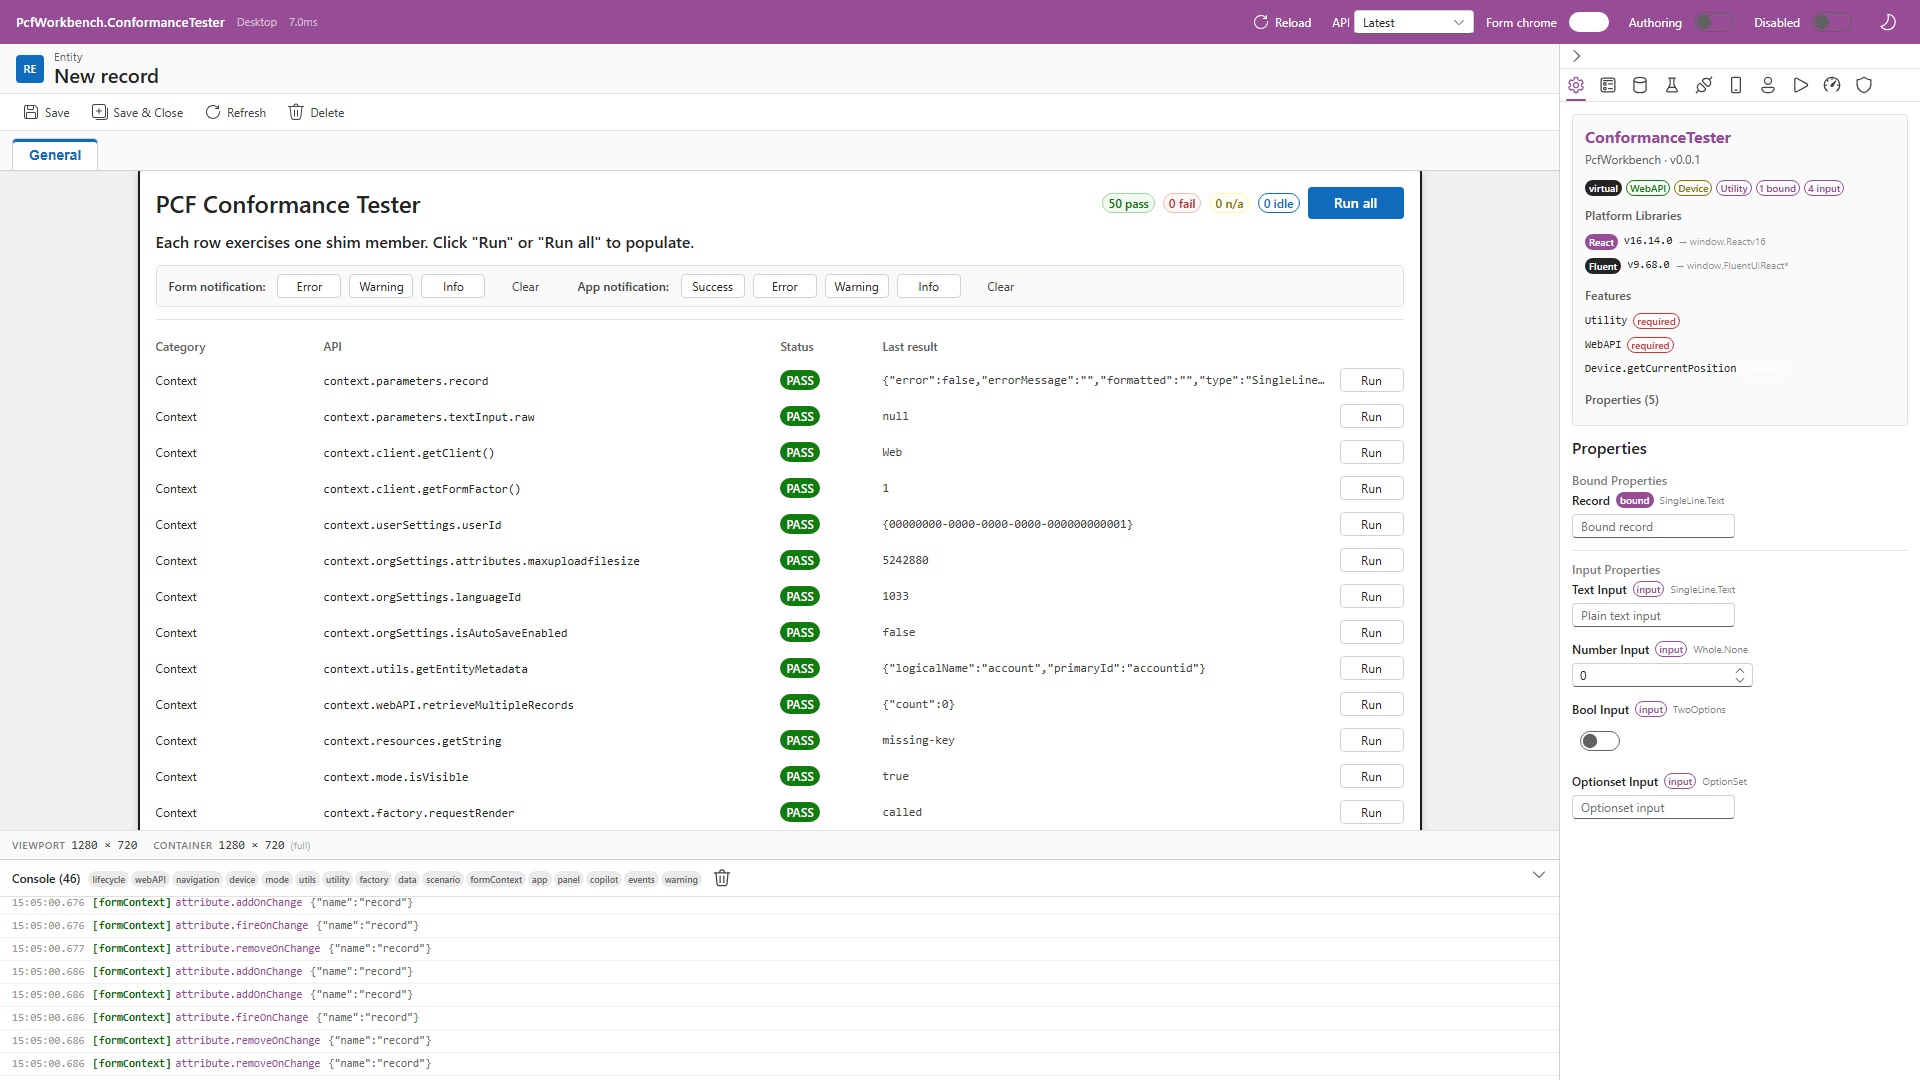
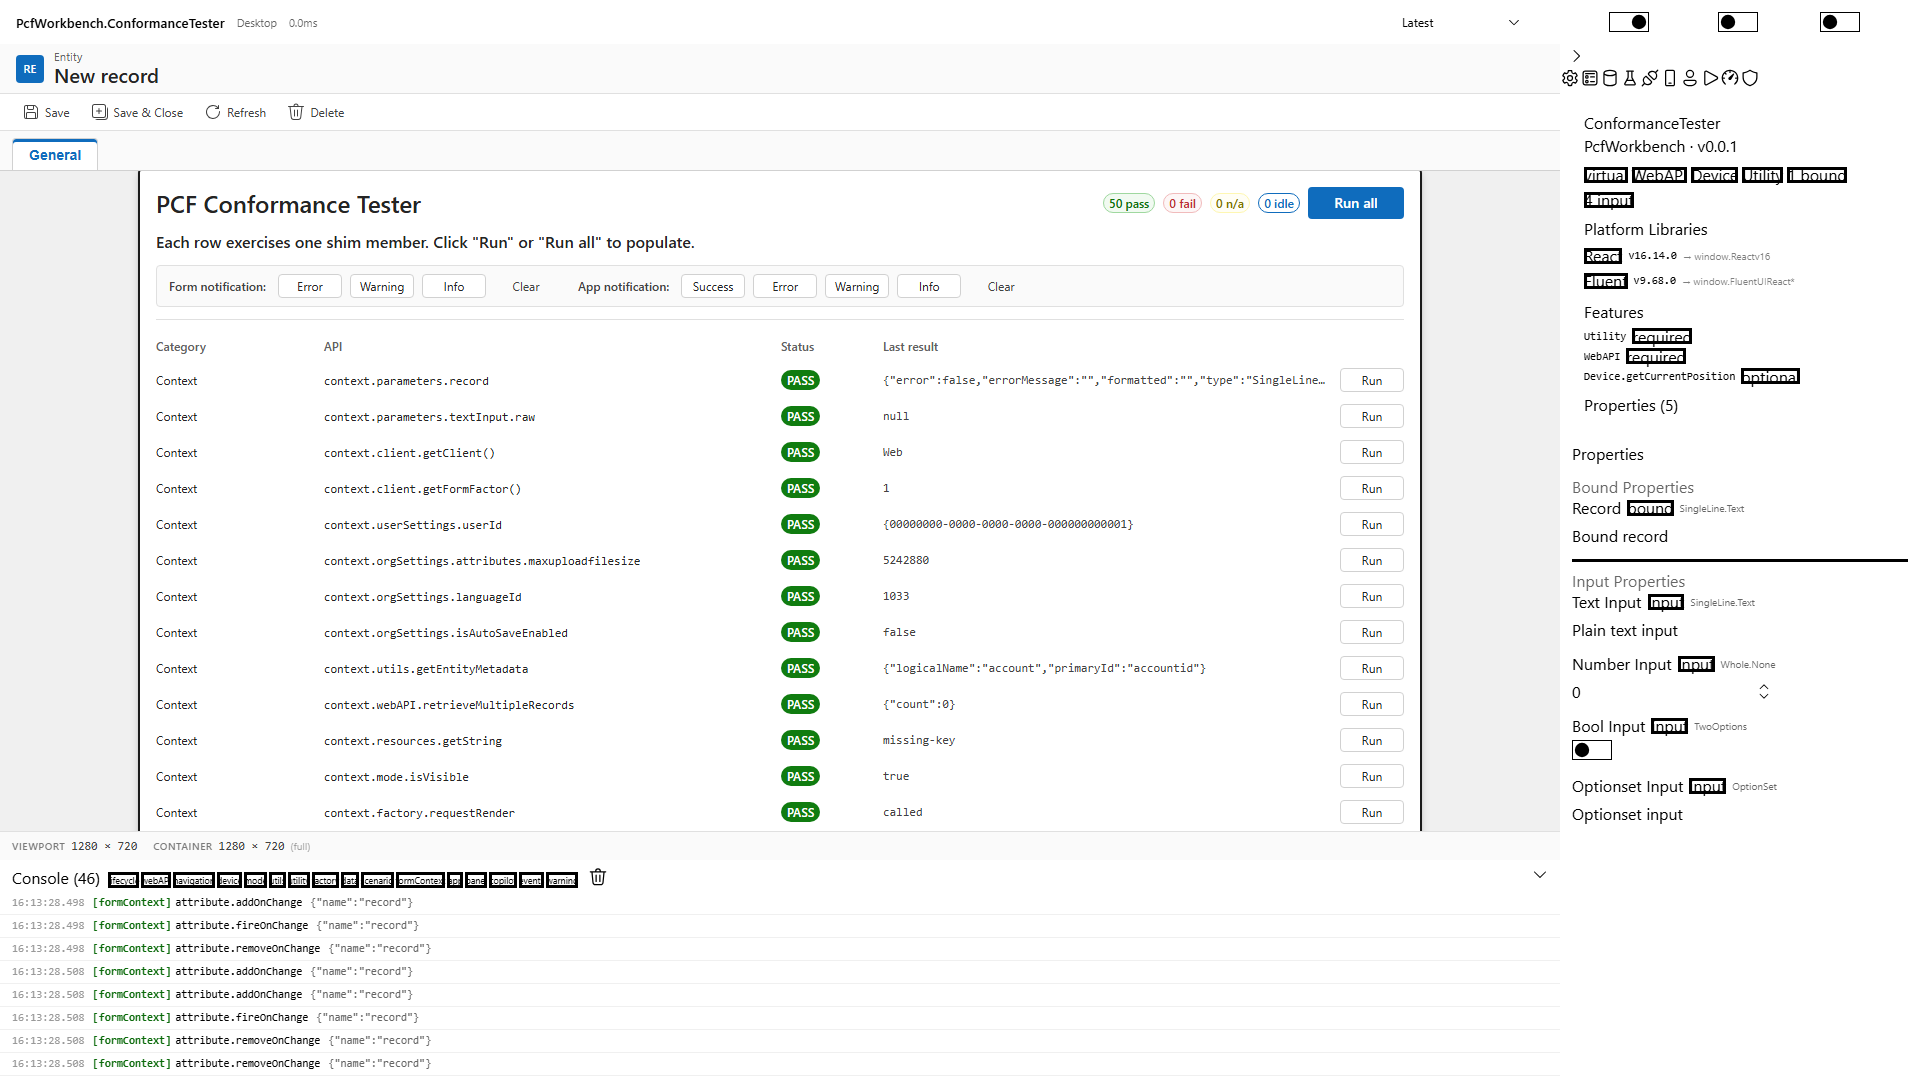
react17-fluent9-late: bump to React 18 when Fluent v9 >= 9.40
Virtual PCFs that declare React 16 but bundle Fluent v9 >= 9.40 crash in commit phase with 'Cannot read properties of undefined (reading set)' because Fluent v9.40+ uses useSyncExternalStore, which needs React 18's real dispatcher (React 16's polyfill can't replicate the .set object).

Resolution: when the bundle scan reports Fluent v9 >= 9.40 and the manifest declared React major < 18, override the manifest with React 18.3.1 and warn loudly. Otherwise respect the manifest. Defaults to React 16.14.0 (UCI parity).

Plumbed effectiveReactVersion / effectiveReactSource through ManifestResources so transformIndexHtml, setupReactAliases, and getReactDOMGlobal all use one resolved decision. control-host now prefers ReactDOM.createRoot (React 18) over .render (16/17) and unmounts cleanly via root.unmount() in destroy().

Validated: ConformanceTester (declares React 16, has Fluent 9.68) upgraded to React 18 and stays Playwright 50/0/0. NoteTakingCtrl (declares React 16, has Fluent 9.46) no longer crashes on the Fluent .set bug; remaining errors are unrelated control-side undefined-property reads against an absent data.json.

diff --git a/harness/src/vite-plugin/pcf-plugin.ts b/harness/src/vite-plugin/pcf-plugin.ts
@@ -123,6 +123,48 @@ function detectFluentNeeds(
   return out;
 }
 
+/**
+ * Reconcile the manifest's React platform-library version with what Fluent
+ * v9 needs at runtime.
+ *
+ * Why: deployed manifests routinely declare React 16 but bundle a recent
+ * Fluent v9 (≥ 9.40) that needs React 17/18's useSyncExternalStore
+ * dispatcher. The harness's React 16 polyfill of useSyncExternalStore is
+ * incomplete (it cannot replicate the internal dispatcher object with
+ * `.set`), so Fluent crashes in commit with "Cannot read properties of
+ * undefined (reading 'set')". Real UCI has the same issue — controls that
+ * ship this combination are de-facto broken in production too, but it's
+ * masked by hosting environment. We have to be pragmatic.
+ *
+ * Resolution order (first match wins):
+ *   1. Bundle uses Fluent v9 ≥ 9.40 AND declared React major < 18 →
+ *      upgrade to React 18.3.1 (override the manifest to make the control
+ *      actually run; warn loudly).
+ *   2. Manifest declares React explicitly → respect it.
+ *   3. Bundle uses Fluent v9 ≥ 9.40 (no React declared) → React 18.3.1.
+ *   4. Default → React 16.14.0 (matches UCI production).
+ */
+function resolveReactVersion(
+  manifest: ManifestConfig,
+): { version: string; source: 'manifest' | 'fluent-upgrade' | 'default' } {
+  const declared = manifest.resources.platformLibraries.find(l => l.name === 'React');
+  const fluentV9 = manifest.resources.fluentNeeds?.v9;
+  const fluentNeedsR18 = (() => {
+    if (!fluentV9) return false;
+    const [maj, minRaw] = fluentV9.split('.');
+    return maj === '9' && Number(minRaw ?? '0') >= 40;
+  })();
+
+  if (fluentNeedsR18) {
+    const declaredMajor = declared ? Number(declared.version.split('.')[0]) : NaN;
+    if (!declared || declaredMajor < 18) {
+      return { version: '18.3.1', source: 'fluent-upgrade' };
+    }
+  }
+  if (declared) return { version: declared.version, source: 'manifest' };
+  return { version: '16.14.0', source: 'default' };
+}
+
 function loadControl(state: PcfPluginState): void {
   if (!state.controlDir) return;
 
@@ -162,6 +204,18 @@ function loadControl(state: PcfPluginState): void {
   // globals undefined → cryptic runtime crashes (e.g. "undefined.gap" when v8 is
   // aliased over v9 calls to shorthands.gap).
   state.manifest.resources.fluentNeeds = detectFluentNeeds(state.outDir, state.manifest);
+  const { version: effReact, source: effReactSource } = resolveReactVersion(state.manifest);
+  state.manifest.resources.effectiveReactVersion = effReact;
+  state.manifest.resources.effectiveReactSource = effReactSource;
+  console.log(
+    `[pcf-workbench] React version: ${effReact} (source: ${effReactSource})` +
+    (effReactSource === 'fluent-upgrade'
+      ? ` — bumped to React 18 because Fluent v9 ≥ 9.40 needs the real useSyncExternalStore dispatcher` +
+        (state.manifest.resources.platformLibraries.find(l => l.name === 'React')
+          ? ` (manifest declared React ${state.manifest.resources.platformLibraries.find(l => l.name === 'React')!.version} — overridden to keep the control functional)`
+          : '')
+      : '')
+  );
 
   // RESX — bucketed by LCID parsed from filename like `name.1033.resx`.
   // Files without a 4-digit LCID stem fall into bucket 0 (treated as default).
@@ -294,34 +348,25 @@ export function pcfPlugin(): Plugin {
 
     transformIndexHtml() {
       if (!state.manifest) return [];
-      const libs = state.manifest.resources.platformLibraries;
       const tags: Array<{ tag: string; attrs: Record<string, string>; injectTo: 'head-prepend' }> = [];
 
       // Inject React UMD scripts BEFORE everything else so globals exist
-      // when the PCF bundle loads
-      let reactLib = libs.find(l => l.name === 'React');
+      // when the PCF bundle loads. The effective version was resolved during
+      // loadControl via resolveReactVersion — it reconciles the manifest
+      // declaration with Fluent v9 ≥ 9.40's hard requirement on React 17/18.
+      const effective = state.manifest.resources.effectiveReactVersion ?? '16.14.0';
+      const major = effective.split('.')[0];
 
-      // M9 / extracted controls: deployed manifests often only declare Fluent,
-      // but the bundle still references the React global because pcf-scripts
-      // externalizes React in production builds. UCI provides React implicitly.
-      // If Fluent is declared without React, infer React 16 (Fluent v9 baseline).
-      if (!reactLib && libs.some(l => l.name === 'Fluent')) {
-        reactLib = { name: 'React', version: '16.14.0' };
-      }
-
-      if (reactLib) {
-        const major = reactLib.version.split('.')[0];
-        if (major === '16') {
-          tags.push(
-            { tag: 'script', attrs: { src: 'https://unpkg.com/react@16.14.0/umd/react.development.js' }, injectTo: 'head-prepend' },
-            { tag: 'script', attrs: { src: 'https://unpkg.com/react-dom@16.14.0/umd/react-dom.development.js' }, injectTo: 'head-prepend' },
-          );
-        } else if (major === '18') {
-          tags.push(
-            { tag: 'script', attrs: { src: 'https://unpkg.com/react@18.3.1/umd/react.development.js' }, injectTo: 'head-prepend' },
-            { tag: 'script', attrs: { src: 'https://unpkg.com/react-dom@18.3.1/umd/react-dom.development.js' }, injectTo: 'head-prepend' },
-          );
-        }
+      if (major === '16') {
+        tags.push(
+          { tag: 'script', attrs: { src: `https://unpkg.com/react@${effective}/umd/react.development.js` }, injectTo: 'head-prepend' },
+          { tag: 'script', attrs: { src: `https://unpkg.com/react-dom@${effective}/umd/react-dom.development.js` }, injectTo: 'head-prepend' },
+        );
+      } else if (major === '17' || major === '18') {
+        tags.push(
+          { tag: 'script', attrs: { src: `https://unpkg.com/react@${effective}/umd/react.development.js` }, injectTo: 'head-prepend' },
+          { tag: 'script', attrs: { src: `https://unpkg.com/react-dom@${effective}/umd/react-dom.development.js` }, injectTo: 'head-prepend' },
+        );
       }
       return tags;
     },

diff --git a/harness/src/loader/control-host.ts b/harness/src/loader/control-host.ts
@@ -35,6 +35,9 @@ export class ControlHost {
   private virtualForceUpdate: (() => void) | null = null;
   // For virtual controls: ref to the current element so the wrapper can re-render with updated content
   private _virtualElementRef: { current: any } | null = null;
+  // For React 18: store the createRoot handle so destroy() can unmount cleanly
+  // (React 18 removed unmountComponentAtNode for createRoot-mounted trees).
+  private _reactRoot: { unmount: () => void } | null = null;
   // Snapshot of state at the previous updateView, used to compute updatedProperties
   private prevSnapshot: {
     propertyValues: Record<string, any>;
@@ -274,11 +277,17 @@ export class ControlHost {
               }
             }
 
-            if (ReactDOM.render) {
+            if (ReactDOM.createRoot) {
+              // React 18+ path. Prefer createRoot to silence the deprecation
+              // warning and avoid the legacy-mode behavior that triggers some
+              // Fluent edge cases.
+              if (!this._reactRoot) {
+                this._reactRoot = ReactDOM.createRoot(this.container);
+              }
+              (this._reactRoot as any).render(React.createElement(VirtualWrapper));
+            } else if (ReactDOM.render) {
+              // React 16/17 path.
               ReactDOM.render(React.createElement(VirtualWrapper), this.container);
-            } else if (ReactDOM.createRoot) {
-              const root = ReactDOM.createRoot(this.container);
-              root.render(React.createElement(VirtualWrapper));
             }
           } else if (this.virtualForceUpdate) {
             // Subsequent renders: update the ref and trigger re-render without remounting
@@ -329,9 +338,15 @@ export class ControlHost {
     if (this.container && this.manifest.controlType === 'virtual') {
       // Unmount React tree before destroying the control
       try {
-        const ReactDOM = getReactDOMGlobal(this.manifest.resources);
-        if (ReactDOM?.unmountComponentAtNode) {
-          ReactDOM.unmountComponentAtNode(this.container);
+        if (this._reactRoot) {
+          // React 18+ createRoot tree
+          this._reactRoot.unmount();
+          this._reactRoot = null;
+        } else {
+          const ReactDOM = getReactDOMGlobal(this.manifest.resources);
+          if (ReactDOM?.unmountComponentAtNode) {
+            ReactDOM.unmountComponentAtNode(this.container);
+          }
         }
       } catch {
         // Ignore unmount errors

diff --git a/harness/src/loader/react-aliases.ts b/harness/src/loader/react-aliases.ts
@@ -19,12 +19,16 @@ import type { ManifestResources } from '../types/manifest';
  *
  * No-op if no React platform library is declared or window.React is missing.
  */
-export function setupReactAliases(libs: ManifestResources['platformLibraries']): void {
+export function setupReactAliases(libs: ManifestResources['platformLibraries'], resources?: ManifestResources): void {
   const w = window as any;
-  const reactLib = libs.find(l => l.name === 'React');
-  if (!reactLib || !w.React) return;
+  // Prefer the harness's resolved effective version (which may have been
+  // bumped from 16→18 for Fluent v9 ≥ 9.40); fall back to the manifest's
+  // declared React entry for backward compatibility.
+  const effective = resources?.effectiveReactVersion
+    ?? libs.find(l => l.name === 'React')?.version;
+  if (!effective || !w.React) return;
 
-  const major = reactLib.version.split('.')[0];
+  const major = effective.split('.')[0];
   const reactGlobal = `Reactv${major}`;
   const reactDomGlobal = `ReactDOMv${major}`;
 
@@ -44,13 +48,19 @@ export function setupReactAliases(libs: ManifestResources['platformLibraries']):
   // Polyfill React 18-only APIs that Fluent v9 controls expect even on React 16/17.
   // The platform (UCI) provides similar polyfills implicitly; deployed bundles assume
   // they exist. Without these, controls crash on first render with cryptic errors.
+  //
+  // NOTE: when effective React is 18 these are all no-ops (the real impls exist
+  // and have the dispatcher `.set` that Fluent v9.40+ needs). The 16-only path
+  // below cannot replicate that dispatcher — which is exactly why we auto-bump
+  // to React 18 for Fluent ≥ 9.40 in resolveReactVersion().
   if (typeof w.React.useId !== 'function') {
     let _idCounter = 0;
     w.React.useId = () => w.React.useMemo(() => `:pcfwb-${(_idCounter++).toString(36)}:`, []);
     console.log(`[pcf-workbench] Polyfilled React.useId for compatibility with Fluent v9`);
   }
   if (typeof w.React.useSyncExternalStore !== 'function') {
-    // Minimal polyfill — sufficient for Fluent v9's internal use
+    // Minimal polyfill — sufficient for Fluent v9 < 9.40's internal use.
+    // For 9.40+, the real React 18 is loaded instead (see resolveReactVersion).
     w.React.useSyncExternalStore = (subscribe: any, getSnapshot: any) => {
       const [value, setValue] = w.React.useState(getSnapshot());
       w.React.useEffect(() => {
@@ -72,9 +82,10 @@ export function setupReactAliases(libs: ManifestResources['platformLibraries']):
  * Get the versioned ReactDOM global for rendering virtual control output.
  */
 export function getReactDOMGlobal(resources: ManifestResources): any | null {
-  const reactLib = resources.platformLibraries.find(l => l.name === 'React');
-  if (!reactLib) return null;
-  const major = reactLib.version.split('.')[0];
+  const effective = resources.effectiveReactVersion
+    ?? resources.platformLibraries.find(l => l.name === 'React')?.version;
+  if (!effective) return (window as any).ReactDOM ?? null;
+  const major = effective.split('.')[0];
   const globalName = `ReactDOMv${major}`;
   return (window as any)[globalName] ?? (window as any).ReactDOM ?? null;
 }

diff --git a/harness/src/types/manifest.ts b/harness/src/types/manifest.ts
@@ -54,4 +54,17 @@ export interface ManifestResources {
    * declares (deployed-control "manifest drift").
    */
   fluentNeeds?: { v8?: string; v9?: string };
+  /**
+   * React major version the harness should actually inject as UMD, after
+   * reconciling the manifest declaration with what Fluent v9 needs to run.
+   * Fluent v9.40+ uses React 18's useSyncExternalStore dispatcher API, which
+   * the React 16 polyfill cannot replicate (missing `.set` on the dispatcher
+   * object). When the bundle scan detects Fluent v9 ≥ 9.40, this is bumped
+   * to 18 to avoid the "Cannot read properties of undefined (reading 'set')"
+   * commit-phase crash. Otherwise mirrors the manifest's declared React.
+   * Populated alongside fluentNeeds by the Vite plugin's loadControl.
+   */
+  effectiveReactVersion?: string;
+  /** Source of effectiveReactVersion for logging / diagnostics — 'manifest' | 'fluent-upgrade' | 'default'. */
+  effectiveReactSource?: 'manifest' | 'fluent-upgrade' | 'default';
 }

diff --git a/harness/src/loader/platform-libs.ts b/harness/src/loader/platform-libs.ts
@@ -28,7 +28,7 @@ export async function loadPlatformLibraries(resources: ManifestResources): Promi
 
   const w = window as any;
 
-  setupReactAliases(libs);
+  setupReactAliases(libs, resources);
 
   // Set up Fluent UI — load every major actually referenced by the bundle.
   //